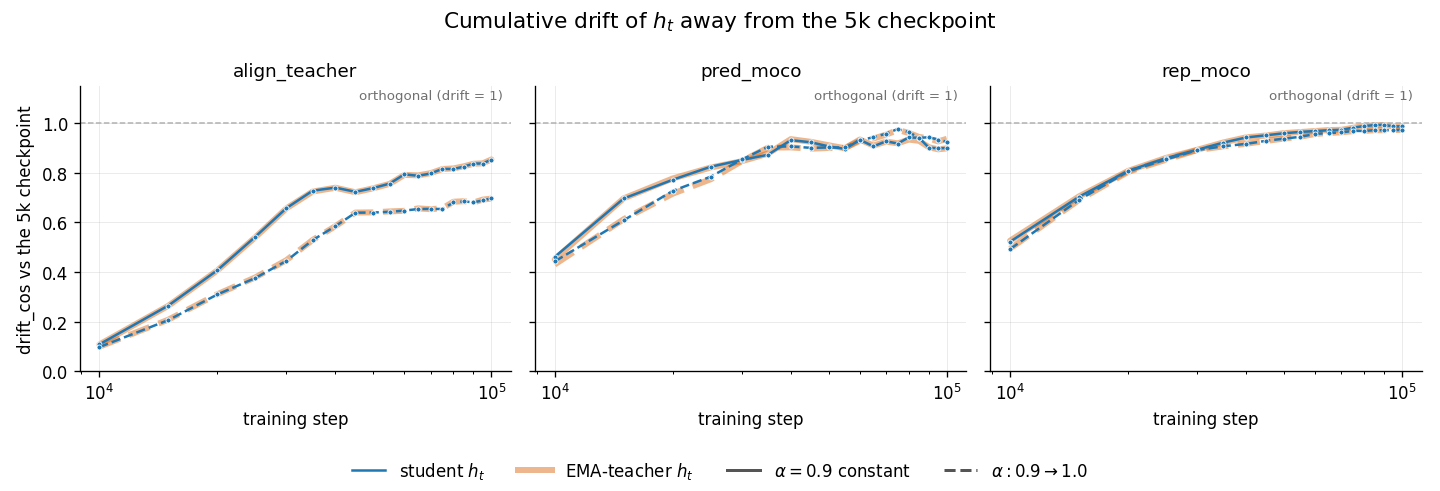
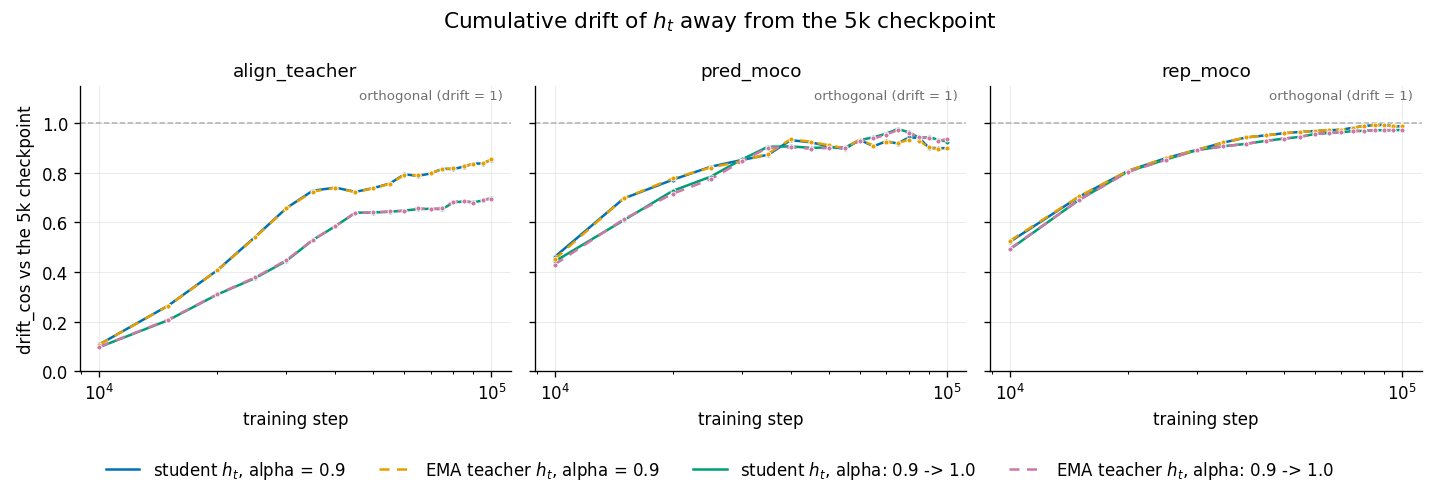
report: make the three supporting figures readable
align_fix: drop the prior `align` series, whose 0 to 1.32 range crushed the
student and teacher curves into the bottom 8% of the axis. Its numbers stay
in the back tables, which now carry the `sg(.)` definition.

cumulative_drift, drift_500: one colour per named series, equal line weight,
teacher dashed on top, the scheme already used by the headline. Replaces the
pale-band encoding that read as a drop shadow and the grey alpha swatches
that matched no visible curve.

drift_500: log y axis. The linear range was set by the first two probes and
flattened everything from 1000 steps to 100k.

diff --git a/experiments/2026-08-01_align_teacher_ema_schedule/scripts/make_plots.py b/experiments/2026-08-01_align_teacher_ema_schedule/scripts/make_plots.py
@@ -7,7 +7,7 @@ results/alpha_schedule.csv (in-training, from make_results_csvs.py).
 Writes the report's five figures into plots/:
 
     drift_headline.png    3x3 arm panel, adjacent 5k-pair drift
-    align_fix.png         what swapping L_align's target changed
+    align_fix.png         align_teacher's student and EMA-teacher latent
     alpha_schedule.png    α against training step
     cumulative_drift.png  drift vs the first probe, teacher arms
     drift_500.png         adjacent 500-step drift, the four new runs
@@ -21,14 +21,10 @@ ask for:
                           L_align panels: both align arms sit within ~10%
                           of the collinear floor on the time axis.
 
-Encoding in drift_headline.png and align_fix.png: one colour per named
-series, so a curve is identified from a single legend row. The EMA-teacher
-series are drawn last and dashed, so where a teacher coincides with its
-student both stay visible.
-
-Encoding in the other figures: colour = which encoder (student / EMA
-teacher), line style = the α schedule (solid = constant, dashed =
-0.9 -> 1.0).
+Encoding, everywhere: one colour per named series, so a curve is identified
+from a single legend row and the legend carries no entry that maps to no
+visible curve. The EMA-teacher series are drawn last and dashed, so where a
+teacher coincides with its student both stay visible.
 """
 
 from __future__ import annotations
@@ -49,29 +45,31 @@ ARMS = ["pred", "rep", "align", "align_teacher", "pred_moco",
 TEACHER_ARMS = ["align_teacher", "pred_moco", "rep_moco"]
 
 STUDENT, TEACHER = "#1f77b4", "#d95f02"        # CVD-validated pair
-COLOR = {"student_h": STUDENT, "teacher_h": TEACHER}
-LATENT_LABEL = {"student_h": "student $h_t$", "teacher_h": "EMA-teacher $h_t$"}
-STYLE = {"none": "-", "const_0.9": "-", "sched_0.9_1.0": "--"}
-ALPHA_LABEL = {"const_0.9": r"$\alpha=0.9$ constant",
-               "sched_0.9_1.0": r"$\alpha:0.9\rightarrow1.0$"}
 MARK = dict(lw=1.6, marker="o", ms=3.2, markeredgecolor="white",
             markeredgewidth=0.5)
 
-# The teacher tracks the student closely enough that on most arms the two
-# curves coincide to within a line width. Drawn identically, whichever goes
-# on top erases the other and the figure looks like it is missing a curve.
-# So the teacher is a wide soft band and the student a thin line on top of
-# it: coincidence reads as a blue line inside an orange band, divergence
-# reads as two curves.
-LATENT_KW = {
-    "student_h": dict(lw=1.5, marker="o", ms=3.0, markeredgecolor="white",
-                      markeredgewidth=0.5, zorder=3),
-    "teacher_h": dict(lw=3.6, alpha=0.45, solid_capstyle="round", zorder=2),
-}
-RUN_COLOR = {"align_teacher_a09": "#7570b3",
-             "align_teacher_sched": "#1b9e77",
-             "pred_moco_sched": "#d95f02",
-             "rep_moco_sched": "#e7298a"}
+# One named series = one colour = one legend row, Okabe-Ito, equal line
+# weight everywhere so no curve is a backdrop for another. The teacher of
+# each pair is drawn LAST and dashed, so it renders on top where the two
+# coincide and the student shows through the gaps. Shared by the headline,
+# the cumulative figure and the 500-step figure.
+NAMED = [
+    (("const_0.9", "student_h"), "#0072B2", "student $h_t$, alpha = 0.9", "-"),
+    (("sched_0.9_1.0", "student_h"), "#009E73",
+     "student $h_t$, alpha: 0.9 -> 1.0", "-"),
+    (("const_0.9", "teacher_h"), "#E69F00",
+     "EMA teacher $h_t$, alpha = 0.9", (0, (4, 3))),
+    (("sched_0.9_1.0", "teacher_h"), "#CC79A7",
+     "EMA teacher $h_t$, alpha: 0.9 -> 1.0", (0, (4, 3))),
+]
+NAMED_ORDER = [0, 2, 1, 3]          # student/teacher pairs side by side
+
+
+def named_handles(keys_present):
+    """One legend entry per curve actually drawn in the figure."""
+    return [Line2D([], [], color=NAMED[i][1], lw=1.5,
+                   linestyle=NAMED[i][3], label=NAMED[i][2])
+            for i in NAMED_ORDER if NAMED[i][0] in keys_present]
 
 
 def read_drift(path):
@@ -96,15 +94,13 @@ def read_drift(path):
 
 
 def curves(series, arm, kind):
-    """Every (alpha, latent, points) of one arm, constant-α first.
+    """Every (alpha, latent, points) of one arm.
 
     A resumed run contributes one `vs_initial` entry per reference step, so
     its segments are drawn as separate lines instead of one false curve.
     """
-    out = [(k[2], k[3], v) for k, v in series.items()
-           if k[1] == arm and k[4] == kind]
-    # Teacher first so the student's thin line lands on top of its band.
-    return sorted(out, key=lambda t: (t[0], t[1] != "teacher_h"))
+    return sorted((k[2], k[3], v) for k, v in series.items()
+                  if k[1] == arm and k[4] == kind)
 
 
 def style_axes(ax, ylabel=None, xlabel="training step", logx=True):
@@ -116,15 +112,6 @@ def style_axes(ax, ylabel=None, xlabel="training step", logx=True):
     ax.set_xlabel(xlabel)
     if ylabel:
         ax.set_ylabel(ylabel)
-
-
-def legend_handles(alphas):
-    h = [Line2D([], [], color=COLOR[l], label=LATENT_LABEL[l],
-                lw=LATENT_KW[l]["lw"], alpha=LATENT_KW[l].get("alpha", 1.0))
-         for l in ("student_h", "teacher_h")]
-    h += [Line2D([], [], color="#555555", lw=1.8, linestyle=STYLE[a],
-                 label=ALPHA_LABEL[a]) for a in alphas]
-    return h
 
 
 # --- 1. headline -----------------------------------------------------------
@@ -139,17 +126,7 @@ def plot_headline(series, out_png):
     # renders on top where the two coincide, and is dashed so the student
     # shows through the gaps. Colour still identifies the curve on its own;
     # the dash is an extra cue, not a replacement.
-    named = [
-        (("const_0.9", "student_h"), "#0072B2", "student $h_t$, alpha = 0.9",
-         "-"),
-        (("sched_0.9_1.0", "student_h"), "#009E73",
-         "student $h_t$, alpha: 0.9 -> 1.0", "-"),
-        (("const_0.9", "teacher_h"), "#E69F00",
-         "EMA teacher $h_t$, alpha = 0.9", (0, (4, 3))),
-        (("sched_0.9_1.0", "teacher_h"), "#CC79A7",
-         "EMA teacher $h_t$, alpha: 0.9 -> 1.0", (0, (4, 3))),
-    ]
-    legend_order = [0, 2, 1, 3]
+    named, legend_order = NAMED, NAMED_ORDER
     solo_color, solo_label = "#333333", "student $h_t$"
     kw = dict(lw=1.5, marker="o", ms=3.0,
               markeredgecolor="white", markeredgewidth=0.5)
@@ -202,9 +179,6 @@ def plot_align_fix(series, out_png):
     # The teacher is drawn LAST and dashed, so it renders on top of the
     # student it coincides with and the student shows through the gaps.
     wanted = [
-        (("align", "align", "none", "student_h", "adjacent"),
-         "#7570b3", "prior `align`: target = student sg($h_{t+1}$)",
-         "-", dict(MARK, zorder=3)),
         (("align_teacher_a09", "align_teacher", "const_0.9", "student_h",
           "adjacent"), STUDENT, "`align_teacher`: student $h_t$",
          "-", dict(MARK, zorder=4)),
@@ -226,8 +200,8 @@ def plot_align_fix(series, out_png):
     order = [w[2] for w in wanted]
     ax.legend([handles[k] for k in order if k in handles],
               [k for k in order if k in handles], frameon=False, fontsize=9)
-    ax.set_title("L_align with the teacher as target, α = 0.9 constant",
-                 fontsize=12)
+    ax.set_title("`align_teacher`: student and EMA-teacher $h_t$, "
+                 "α = 0.9 constant", fontsize=12)
     fig.tight_layout()
     fig.savefig(out_png, dpi=120)
     print(f"wrote {out_png}")
@@ -269,11 +243,18 @@ def plot_alpha(alpha_csv, out_png):
 
 def plot_cumulative(series, out_png):
     fig, axs = plt.subplots(1, 3, figsize=(12, 4.1), sharey=True)
+    kw = dict(lw=1.5, marker="o", ms=3.0,
+              markeredgecolor="white", markeredgewidth=0.5)
+    present = set()
     for ax, arm in zip(axs, TEACHER_ARMS):
-        for alpha, latent, pts in curves(series, arm, "vs_initial"):
-            ax.plot([p[0] for p in pts], [p[1] for p in pts],
-                    color=COLOR[latent], linestyle=STYLE[alpha],
-                    **LATENT_KW[latent])
+        drawn = curves(series, arm, "vs_initial")
+        for z, (key, color, _, ls) in enumerate(NAMED):
+            for alpha, latent, pts in drawn:
+                if (alpha, latent) != key:
+                    continue
+                present.add(key)
+                ax.plot([p[0] for p in pts], [p[1] for p in pts],
+                        color=color, linestyle=ls, zorder=2 + z, **kw)
         ax.axhline(1.0, color="#b0b0b0", linestyle="--", linewidth=0.9)
         ax.text(0.98, 0.99, "orthogonal (drift = 1)", transform=ax.transAxes,
                 ha="right", va="top", fontsize=8, color="#707070")
@@ -281,7 +262,7 @@ def plot_cumulative(series, out_png):
         ax.set_ylim(0.0, 1.15)
         style_axes(ax, "drift_cos vs the 5k checkpoint"
                    if arm == TEACHER_ARMS[0] else None)
-    fig.legend(handles=legend_handles(["const_0.9", "sched_0.9_1.0"]),
+    fig.legend(handles=named_handles(present),
                loc="lower center", ncol=4, frameon=False, fontsize=10,
                bbox_to_anchor=(0.5, -0.01))
     fig.suptitle("Cumulative drift of $h_t$ away from the 5k checkpoint",
@@ -297,28 +278,25 @@ def plot_cumulative(series, out_png):
 def plot_drift_500(path, out_png):
     series = read_drift(path)
     fig, axs = plt.subplots(1, 3, figsize=(12, 4.1), sharey=True)
+    present = set()
     for ax, arm in zip(axs, TEACHER_ARMS):
-        for alpha, latent, pts in curves(series, arm, "adjacent"):
-            # 199 points per series: markers would smear, so this panel
-            # keeps the band/line pairing but drops them.
-            wide = latent == "teacher_h"
-            ax.plot([p[0] for p in pts], [p[1] for p in pts],
-                    color=COLOR[latent], linestyle=STYLE[alpha],
-                    lw=2.8 if wide else 1.0, alpha=0.35 if wide else 0.95,
-                    zorder=2 if wide else 3)
-        ax.axhline(0.0, color="#b0b0b0", linestyle=":", linewidth=0.9)
+        drawn = curves(series, arm, "adjacent")
+        for z, (key, color, _, ls) in enumerate(NAMED):
+            for alpha, latent, pts in drawn:
+                if (alpha, latent) != key:
+                    continue
+                present.add(key)
+                # 199 points per series: markers would smear, so no markers.
+                ax.plot([p[0] for p in pts], [p[1] for p in pts],
+                        color=color, linestyle=ls, lw=1.5, zorder=2 + z)
         ax.set_title(arm, fontsize=11)
+        # Linear, the first two probes set the whole range and flatten
+        # everything past 1000 steps. Log spans the post-1000 behaviour.
+        ax.set_yscale("log")
         style_axes(ax, "drift_cos ($h_t$), 500-step pairs"
                    if arm == TEACHER_ARMS[0] else None)
-        # Only align_teacher has both α settings in this probe; a shared
-        # legend would advertise a constant-α curve the other panels lack.
-        present = sorted({a for a, _, _ in curves(series, arm, "adjacent")})
-        ax.legend(handles=[Line2D([], [], color="#555555", lw=1.8,
-                                  linestyle=STYLE[a], label=ALPHA_LABEL[a])
-                           for a in present],
-                  frameon=False, fontsize=8.5, loc="upper right")
-    fig.legend(handles=legend_handles([]),
-               loc="lower center", ncol=2, frameon=False, fontsize=10,
+    fig.legend(handles=named_handles(present),
+               loc="lower center", ncol=4, frameon=False, fontsize=10,
                bbox_to_anchor=(0.5, -0.01))
     fig.suptitle("Drift of $h_t$ between probes 500 steps apart "
                  "(the four new runs only)", fontsize=13)

diff --git a/experiments/2026-08-01_align_teacher_ema_schedule/align_teacher_ema_schedule.md b/experiments/2026-08-01_align_teacher_ema_schedule/align_teacher_ema_schedule.md
@@ -23,13 +23,9 @@ under α = 0.9 (slope −0.07 per decade) and falling only under the schedule
 
 ![L_align with the teacher as target](plots/align_fix.png)
 
-*Same probe and same 5000-step spacing, α = 0.9 constant. Purple: the earlier
-`align` arm, whose target was the student's own stop-gradient `sg(h_{t+1})`
-(`sg(·)` blocks gradient flow through its argument). Blue: `align_teacher`,
+*Same probe and same 5000-step spacing, α = 0.9 constant. Blue: `align_teacher`,
 target = EMA teacher `h_{t+1}`. Dashed orange: the EMA-teacher latent of the
-same run, which tracks the student curve within a line width for the whole run.
-With the teacher as target the latent no longer moves wildly between adjacent
-checkpoints.*
+same run, which tracks the student curve within a line width for the whole run.*
 
 ![Dimension usage](plots/supporting/dim_usage.png)
 
@@ -53,7 +49,7 @@ this experiment.
 ![Cumulative drift away from the 5k checkpoint](plots/cumulative_drift.png)
 
 *Same probe, each checkpoint compared to the run's 5k checkpoint instead of to
-its predecessor. The `align_teacher` panel reaches 0.8529 at 100k while the same
+its predecessor. `align_teacher_a09` reaches 0.8529 at 100k while the same
 run's adjacent-window drift averages 0.0123 over 80k–100k: slow per-window drift
 still accumulates, so the representation is not fixed in place.*
 
@@ -61,8 +57,7 @@ still accumulates, so the representation is not fixed in place.*
 
 *The in-training probe, 500-step spacing, the four runs of this card only. Only
 `align_teacher` was run at both α settings, so the other two panels carry the
-schedule alone. All arms drop below 0.1 between 1000 and 2000 steps and stay
-there.*
+schedule alone.*
 
 ## The α schedule
 
@@ -117,7 +112,9 @@ Student `h_t`, adjacent-checkpoint probe, mean over the 80k–100k window, from
 | `rep_moco` | const 0.9 | 0.2531 | 0.1240 |
 | `rep_moco_sched` | 0.9 → 1.0 | 0.0326 | 0.0258 |
 
-Across the whole run the `align` arm's raw adjacent `drift_cos` spans 0.0133 to
+The prior `align` arm's target was the student's own stop-gradient
+`sg(h_{t+1})`; `sg(·)` blocks gradient flow through its argument. Across the
+whole run that arm's raw adjacent `drift_cos` spans 0.0133 to
 1.3226, while its `drift_cos_aligned` peaks at 0.0464 and stays at or below
 7e-06 from 40k on.
 
